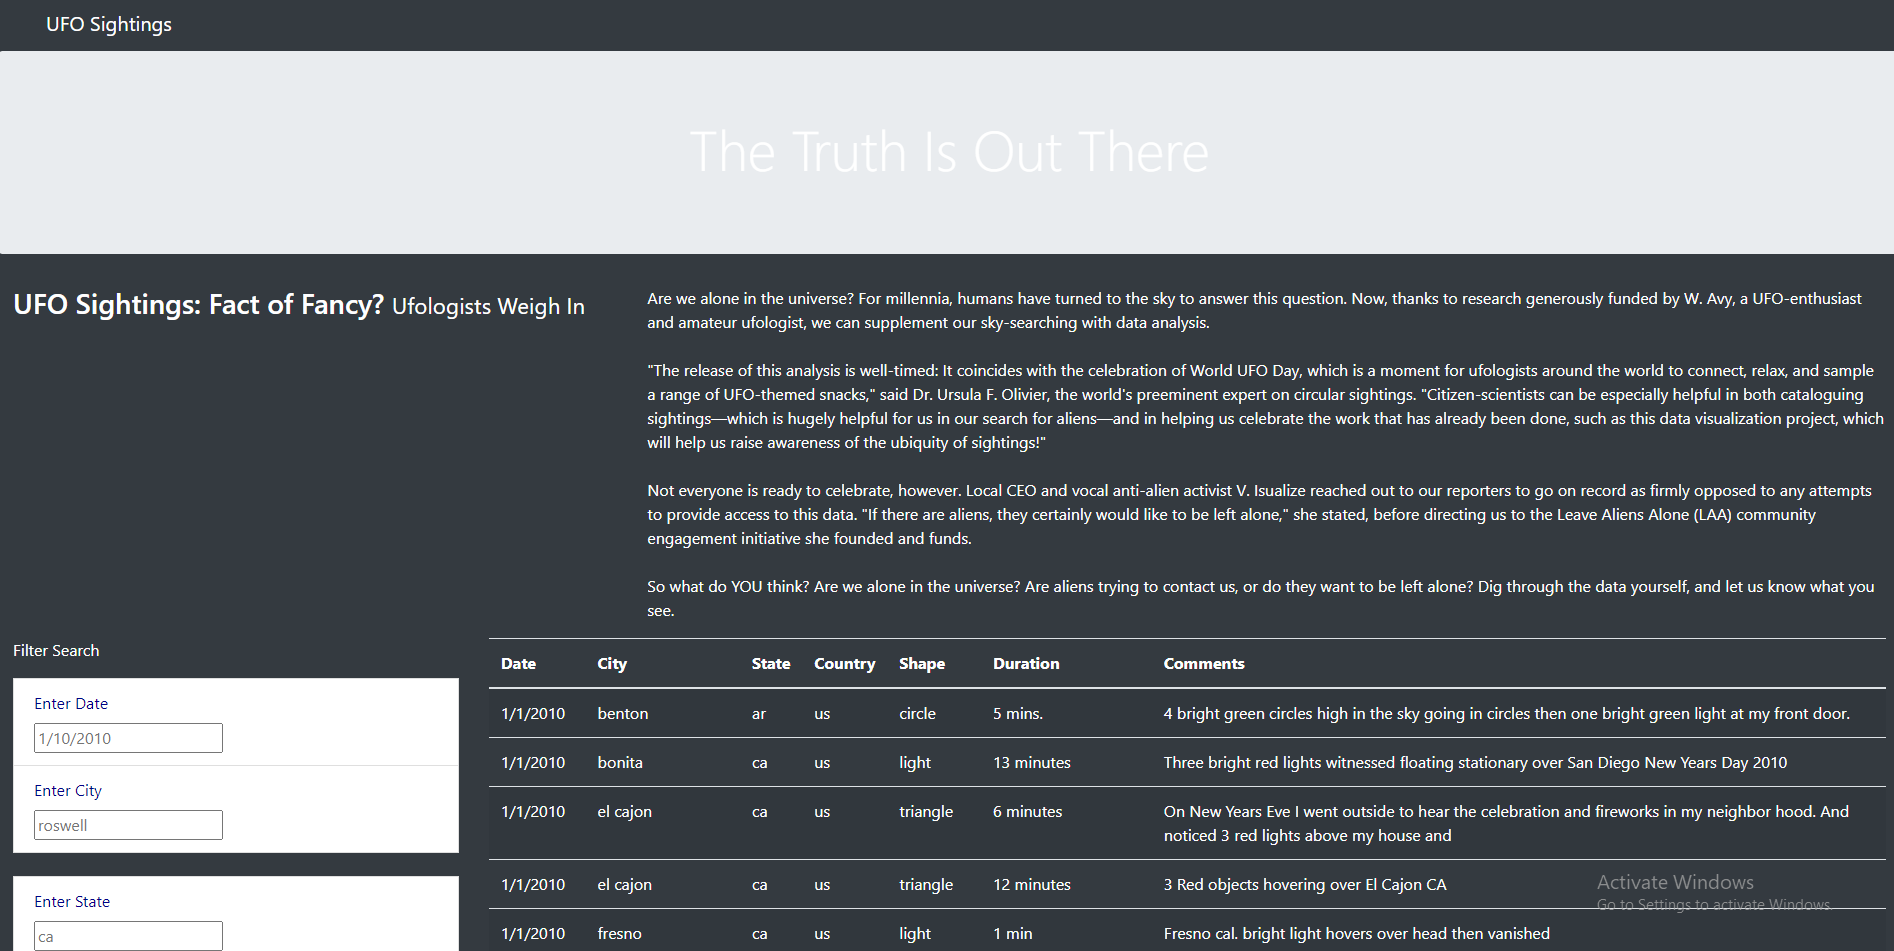
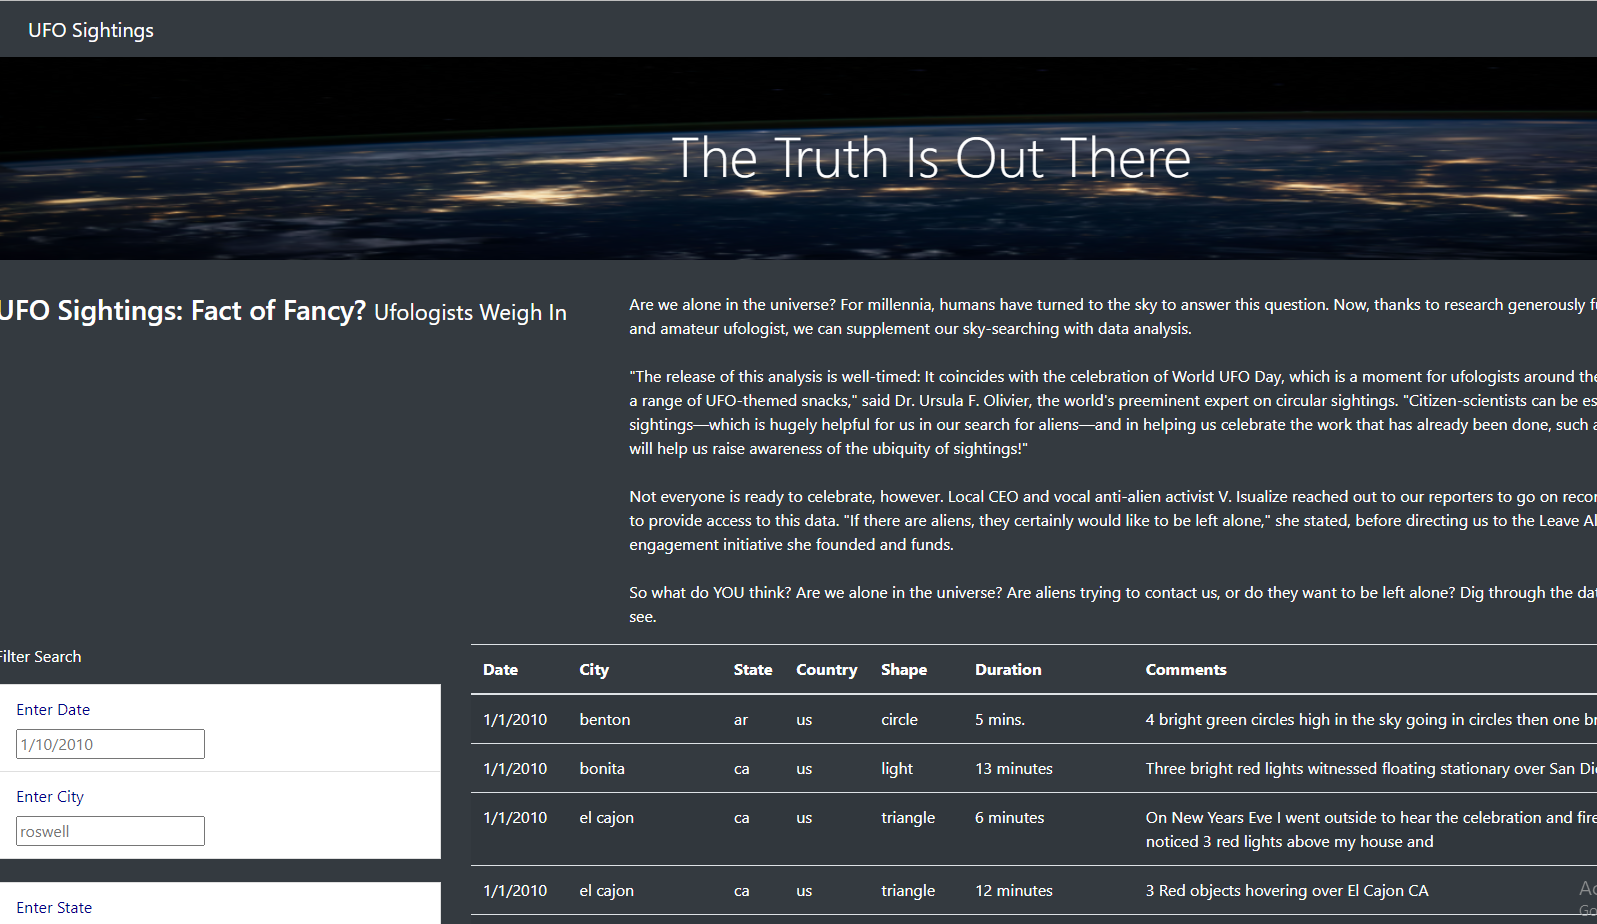
Added Nasa.jpg to html and fixed css problem

diff --git a/index.html b/index.html
@@ -35,7 +35,7 @@
             color: darkblue;
         }
     </style>
-    <link rel="stylesheet" href="static/css/style.css">
+    <link rel="stylesheet" href="style.css">
 </head>
 
 <body class="bg-dark">

diff --git a/style.css b/style.css
@@ -1,0 +1,12 @@
+body {
+
+    
+    color: #f7f7f7;
+  }
+
+.jumbotron {
+    background-image: url("nasa.jpg");
+    background-size: 100% 100%;
+    text-align: center;
+}
+
